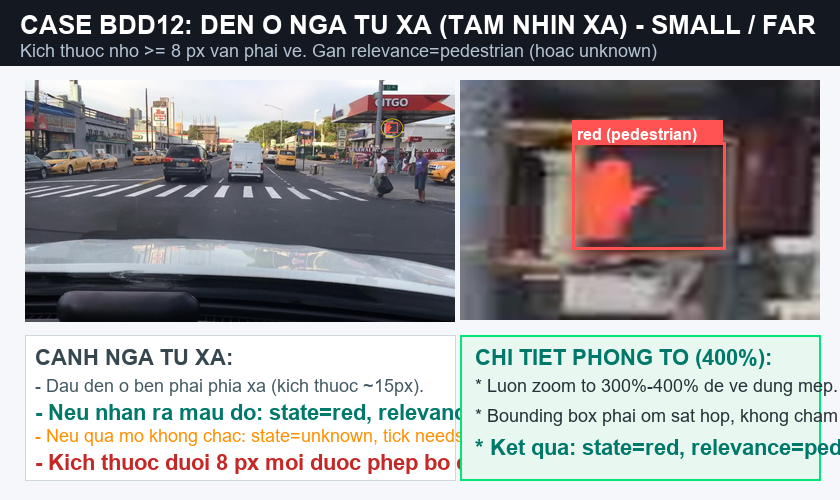
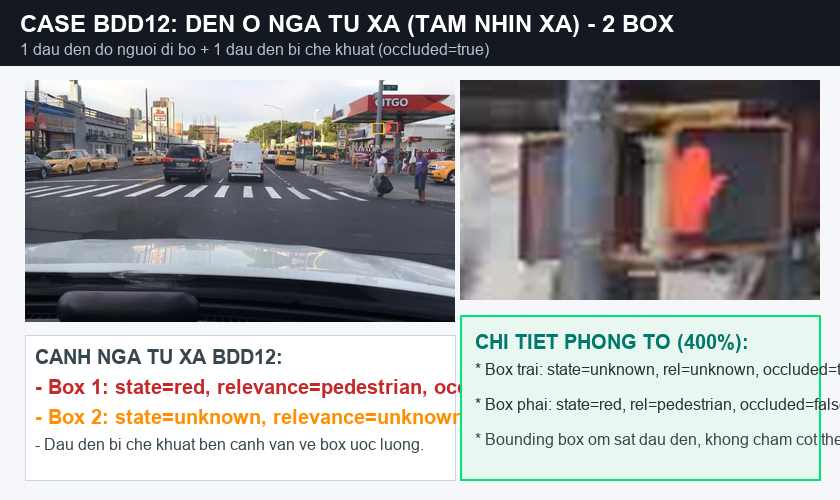
feat(lab9): update edge_case_cards.md and guideline assets to match re-labeled Jobs 20 & 21

Changed region(s): [[0.031, 0.15, 1.0, 0.96], [0.0, 0.03, 0.9905, 0.12], [0.4333, 0.24, 0.4643, 0.27]]

diff --git a/guideline-challenge/project/04_edge_cases/edge_case_cards.md b/guideline-challenge/project/04_edge_cases/edge_case_cards.md
@@ -1,6 +1,6 @@
 # Edge-case library
 
-Thư viện ca biên chuyên sâu về đèn giao thông cho xe tự hành — Nhóm TrafficVision-AI (Lead: ĐỖ TRUNG KIÊN). Toàn bộ 9 ca biên mẫu dưới đây đều thuộc các ảnh thực tế được nạp trực tiếp trong hệ thống CVAT (Task 26 Calibration và Task 27 Golden Blind).
+Thư viện ca biên chuyên sâu về đèn giao thông cho xe tự hành — Nhóm TrafficVision-AI (Lead: ĐỖ TRUNG KIÊN). Toàn bộ 10 ca biên mẫu dưới đây đều thuộc các ảnh thực tế được nạp trực tiếp trong hệ thống CVAT (Task 26 Calibration và Task 27 Golden Blind).
 
 ---
 
@@ -19,11 +19,13 @@ Diversity: conflict
 CASE ID: EC02
 Sample: BDD18
 Scene: Đường phố ban đêm ánh sáng phức tạp, đèn đường và đèn tín hiệu
-Observation: Ban đêm vỏ hộp đèn đen bị chìm vào bóng tối, chỉ nhìn thấy 2 bóng đèn tròn xanh ngọc phát sáng lơ lửng điều khiển xe đi thẳng; góc vỉa hè bên phải có 1 đầu đèn người đi bộ màu đỏ; phía trên cao có các đèn đường cao áp chiếu sáng đô thị màu vàng/cam uốn lượn.
+Observation: Ban đêm vỏ hộp đèn đen bị chìm vào bóng tối, chỉ nhìn thấy 2 bóng đèn tròn xanh ngọc phát sáng lơ lửng điều khiển xe đi thẳng; góc vỉa hè bên phải có 2 đầu đèn tín hiệu người đi bộ (1 đầu đèn đỏ và 1 đầu đèn mờ state=unknown); phía trên cao có các đèn đường cao áp chiếu sáng đô thị màu vàng/cam uốn lượn.
 Decision: LABEL
-Expected:
+Expected: Vẽ đủ 4 bounding box:
 1. Áp dụng Visible Lamp Rule cho 2 bóng đèn xanh: vẽ box nhỏ ôm khít quầng bóng sáng (~10x10 px), state=green, relevance=ego_relevant, occluded=true (do vỏ hộp bị chìm vào bóng tối).
-2. Đầu đèn người đi bộ bên phải vỉa hè: state=red, relevance=pedestrian, occluded=false.
+2. Hai đầu đèn người đi bộ bên phải vỉa hè:
+   - Box 3: state=red, relevance=pedestrian, occluded=false.
+   - Box 4: state=unknown, relevance=pedestrian, occluded=false (đèn người đi bộ mờ bên cạnh).
 3. Các bóng đèn đường cao áp màu vàng cam đơn lẻ: BỎ QUA (IGNORE — Tuyệt đối không vẽ box).
 Rationale: Đảm bảo xe tự hành nhận diện đúng tín hiệu làn mình ban đêm mà không bị nhiễu bởi đèn đường và đèn hậu xe khác.
 Common mistake: Vẽ trùm quầng sáng lóa khổng lồ, hoặc vẽ nhầm đèn cao áp vàng thành đèn vàng giao thông.
@@ -53,10 +55,12 @@ Diversity: critical; small_far
 CASE ID: EC04
 Sample: BDD12
 Scene: Cảnh đường phố ban ngày nhiều mây, tầm nhìn xa
-Observation: Ở ngã tư xa xuất hiện đầu đèn tín hiệu người đi bộ / tín hiệu giao thông kích thước nhỏ (~10-15 px), nhìn thấy rõ viền hộp nhưng khá mờ.
+Observation: Ở ngã tư xa xuất hiện 2 đầu đèn tín hiệu kích thước nhỏ (~10-15 px): 1 đầu đèn người đi bộ màu đỏ và 1 đầu đèn bị che khuất mờ ảo bên cạnh.
 Decision: LABEL
-Expected: Bounding box ôm khít đầu đèn, state=red, relevance=pedestrian (hoặc unknown nếu mờ không chắc màu), occluded=false.
-Rationale: Duy trì độ nhạy (Recall) cho hệ thống nhận diện từ xa nhưng phân định đúng đối tượng người đi bộ.
+Expected: Vẽ 2 bounding box:
+- Box 1: state=red, relevance=pedestrian, occluded=false.
+- Box 2: state=unknown, relevance=unknown, occluded=true.
+Rationale: Duy trì độ nhạy (Recall) cho hệ thống nhận diện từ xa và ghi nhận thuộc tính che khuất một phần.
 Common mistake: Bỏ qua không vẽ vì nghĩ ở quá xa hoặc nhầm thành đèn của xe mình.
 Diversity: small_far
 
@@ -67,10 +71,11 @@ Sample: BDD15
 Scene: Giao lộ đô thị ban ngày, đèn ở xa bị che khuất một phần
 Observation: Phía bên kia ngã tư có các đầu đèn tín hiệu điều khiển giao thông nhưng bị che khuất một phần bởi kết cấu hoặc tầm nhìn xa mờ nhòe.
 Decision: LABEL
-Expected: Vẽ box chữ nhật ước lượng ôm đầu đèn:
-- Đầu đèn nhìn rõ màu: state=red, relevance=ego_relevant.
-- Đầu đèn bị mờ/che khuất: state=unknown, relevance=ego_relevant, occluded=true hoặc needs_review=true.
-Rationale: Giúp mô hình học được đặc trưng đèn bị che khuất một phần (Amodal detection) tại các giao lộ có tầm nhìn hạn chế.
+Expected: Vẽ 3 box chữ nhật ôm các đầu đèn:
+- Box 1: state=red, relevance=ego_relevant (đèn đỏ xe đi thẳng nhìn rõ).
+- Box 2: state=unknown, relevance=ego_relevant (đèn xe ở xa).
+- Box 3: state=unknown, relevance=other_lane (đèn thuộc làn đường khác).
+Rationale: Giúp mô hình học được đặc trưng đèn bị che khuất một phần (Amodal detection) và phân định luồng xe tại các giao lộ có tầm nhìn hạn chế.
 Common mistake: Bỏ qua các đầu đèn bị che khuất hoặc vẽ box quá rộng bao trùm vật cản.
 Diversity: occlusion
 
@@ -93,13 +98,14 @@ Diversity: escalation
 CASE ID: EC07
 Sample: BDD25
 Scene: Giao lộ chạng vạng hoàng hôn có nhiều luồng đèn
-Observation: Có 2 đầu đèn đi thẳng màu xanh treo trên cao điều khiển làn xe mình, và 1 đầu đèn người đi bộ màu đỏ bên phải.
+Observation: Có 2 đầu đèn đi thẳng màu xanh treo trên cao điều khiển làn xe mình, 1 đầu đèn người đi bộ mờ bên phải, và 1 đầu đèn xanh ở xa phía sau.
 Decision: LABEL
-Expected: Vẽ tách biệt 3 box:
-- 2 đầu đèn đi thẳng: state=green, relevance=ego_relevant, occluded=false.
-- 1 đầu đèn người đi bộ: state=red, relevance=pedestrian, occluded=false.
-Rationale: Giao lộ có nhiều luồng giao thông cùng lúc, cần phân tách rõ luồng xe tự hành và luồng người đi bộ.
-Common mistake: Gom các đầu đèn gần nhau thành 1 box to, hoặc nhầm đèn người đi bộ đỏ thành tín hiệu cấm xe mình.
+Expected: Vẽ tách biệt 4 box:
+- Box 1 & 2 (2 đầu đèn đi thẳng): state=green, relevance=ego_relevant, occluded=false.
+- Box 3 (Đèn người đi bộ): state=unknown, relevance=pedestrian, occluded=false.
+- Box 4 (Đèn xanh ở xa): state=green, relevance=unknown, needs_review=true.
+Rationale: Giao lộ có nhiều luồng giao thông cùng lúc, cần phân tách rõ luồng xe tự hành và luồng người đi bộ, gắn cờ review cho đèn xa.
+Common mistake: Gom các đầu đèn gần nhau thành 1 box to, hoặc nhầm đèn người đi bộ thành tín hiệu xe mình.
 Diversity: critical
 
 ---
@@ -124,4 +130,16 @@ Decision: IGNORE
 Expected: Không tạo bounding box (0 boxes).
 Rationale: Kiểm tra khả năng loại bỏ cảnh nhiễu thời tiết tuyết rơi, tránh việc annotator cố đoán mò hoặc vẽ box vào các vật thể lạ bị tuyết bám.
 Common mistake: Đoán mò và vẽ box vào các mảng tuyết trắng bám trên thanh ngang.
+Diversity: ambiguity
+
+---
+
+CASE ID: EC10
+Sample: BDD13
+Scene: Cảnh đường phố đô thị ban ngày rõ nét
+Observation: Ở góc vỉa hè bên phải có đầu đèn tín hiệu người đi bộ nhưng đang tắt hoàn toàn không sáng bóng nào (mất điện hoặc chưa bật).
+Decision: LABEL
+Expected: Vẽ 1 bounding box ôm khít đầu đèn: state=off, relevance=pedestrian, occluded=false, needs_review=false.
+Rationale: Xe tự hành cần nhận diện đầu đèn đang tắt (`state=off`) để kích hoạt chế độ nhường đường an toàn khi qua giao lộ mất điện theo luật giao thông.
+Common mistake: Bỏ qua không vẽ box vì nghĩ đèn tắt là không cần label.
 Diversity: ambiguity
